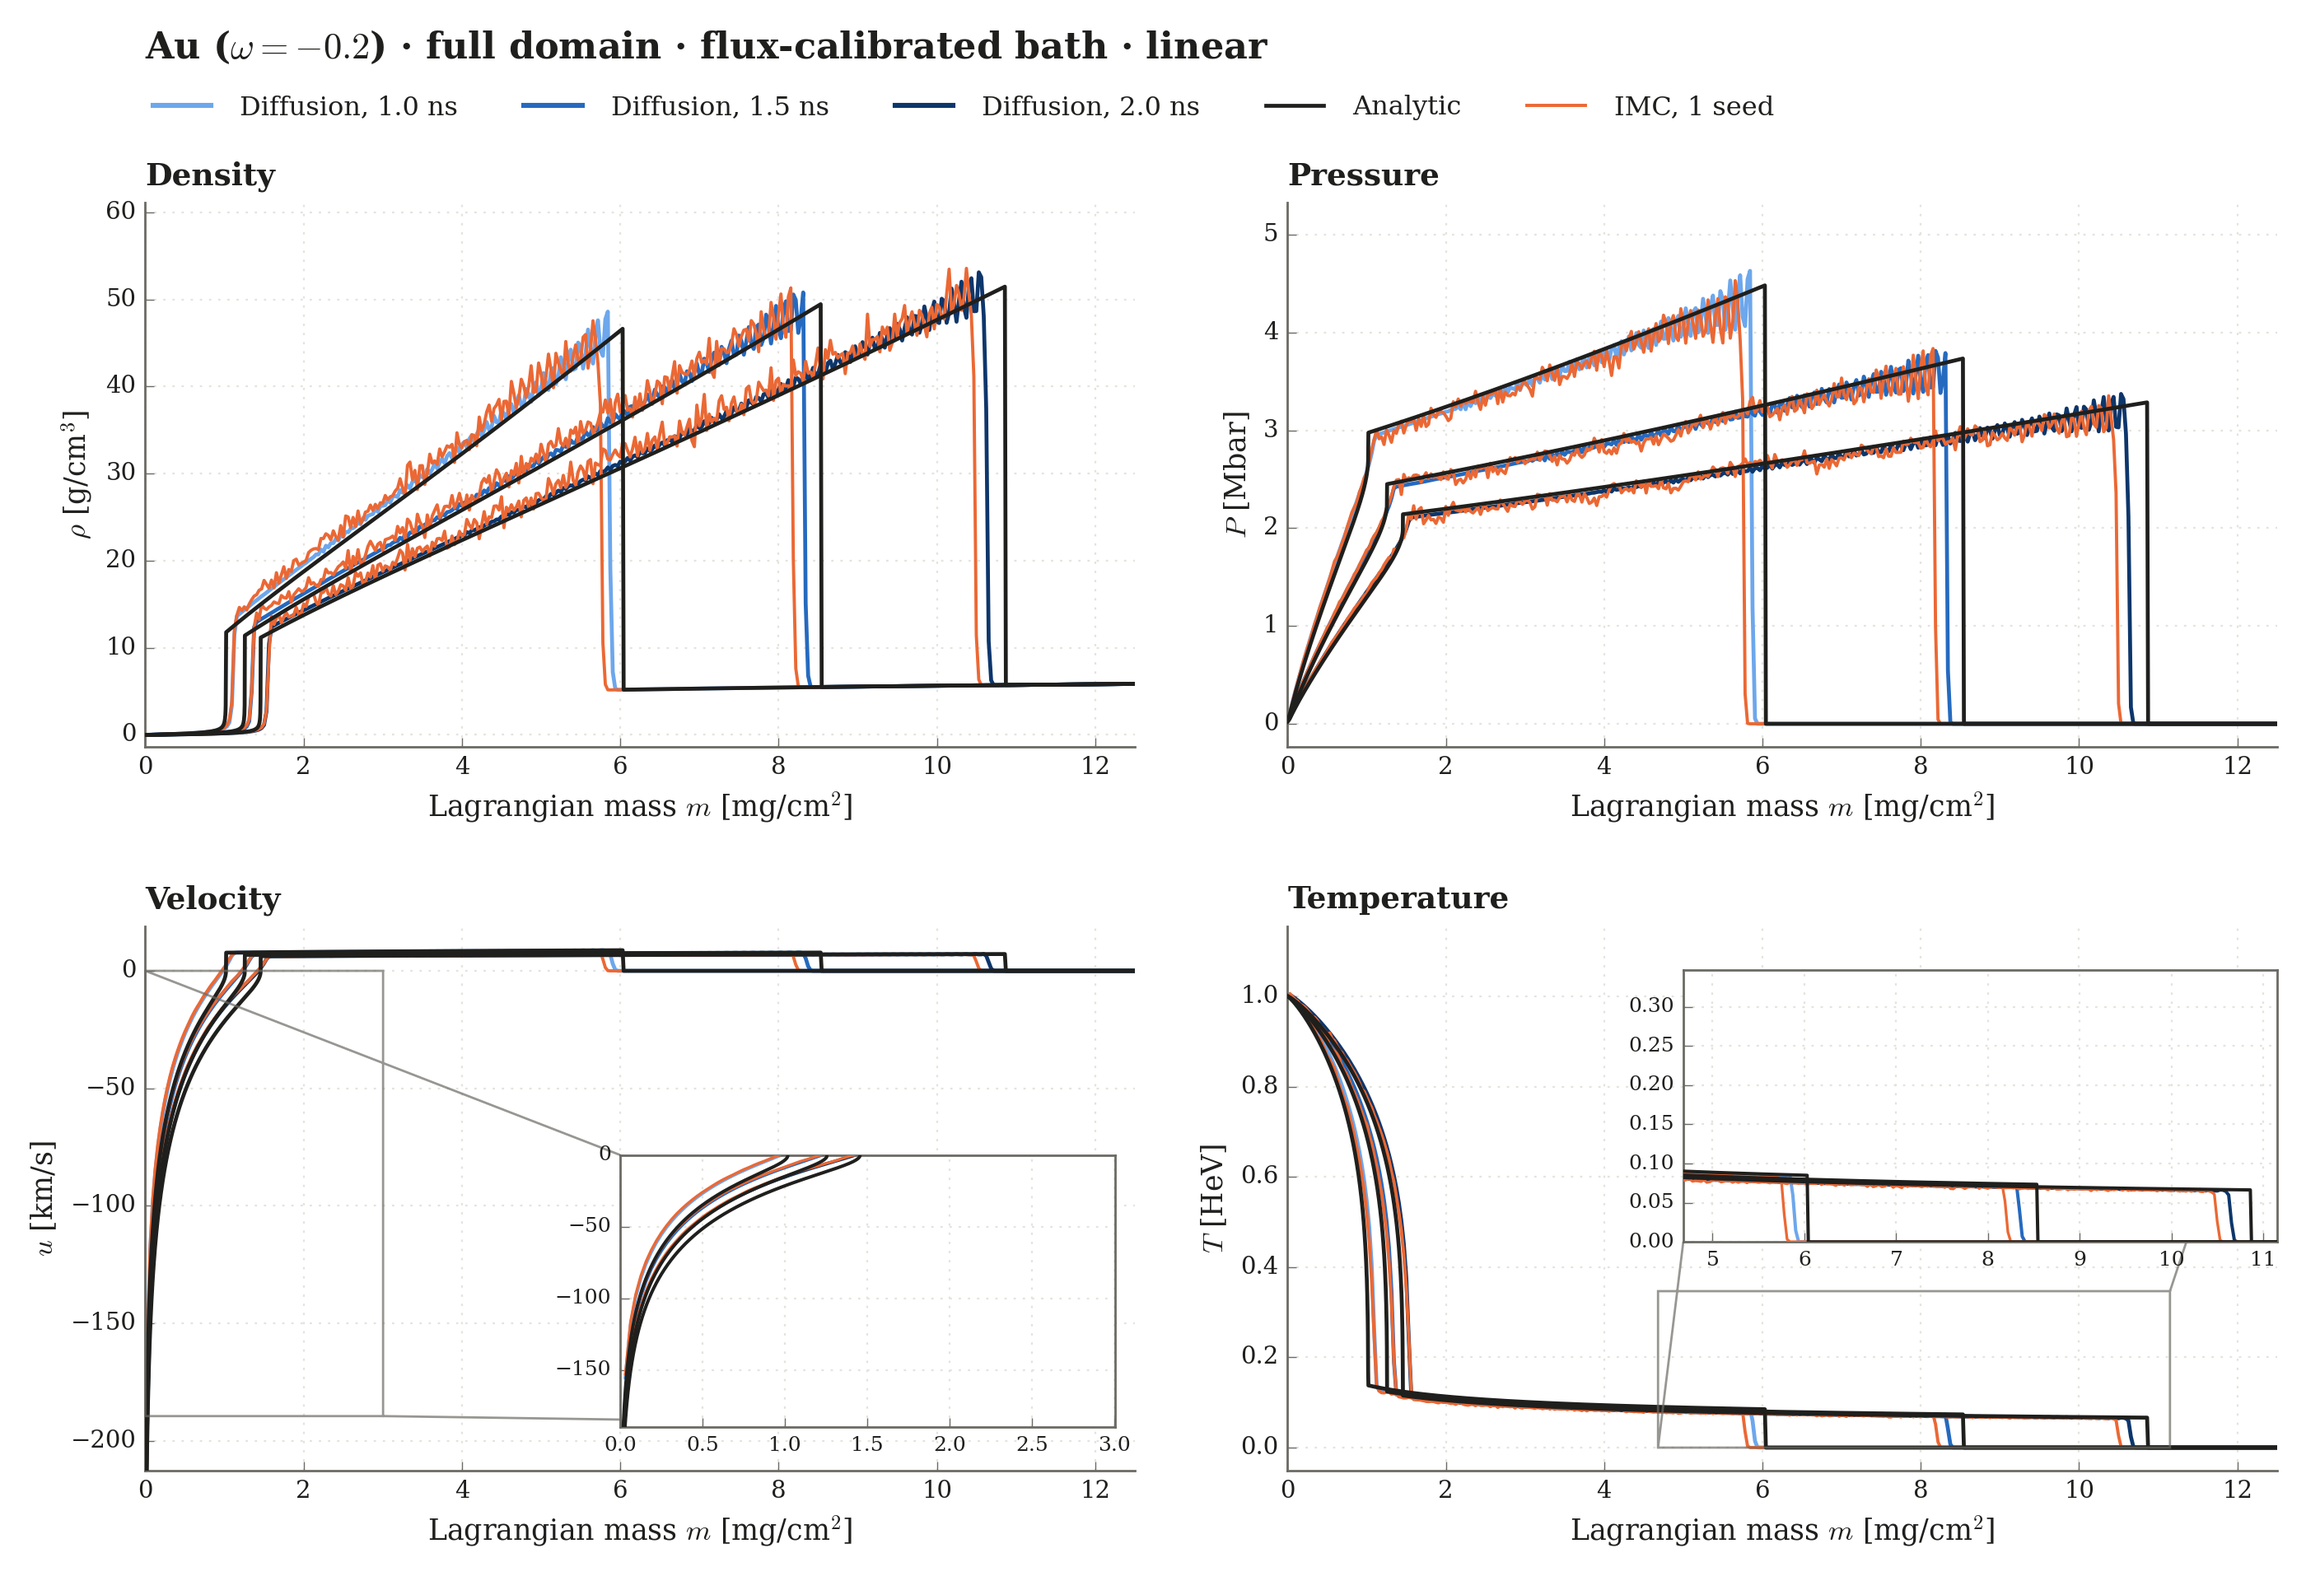
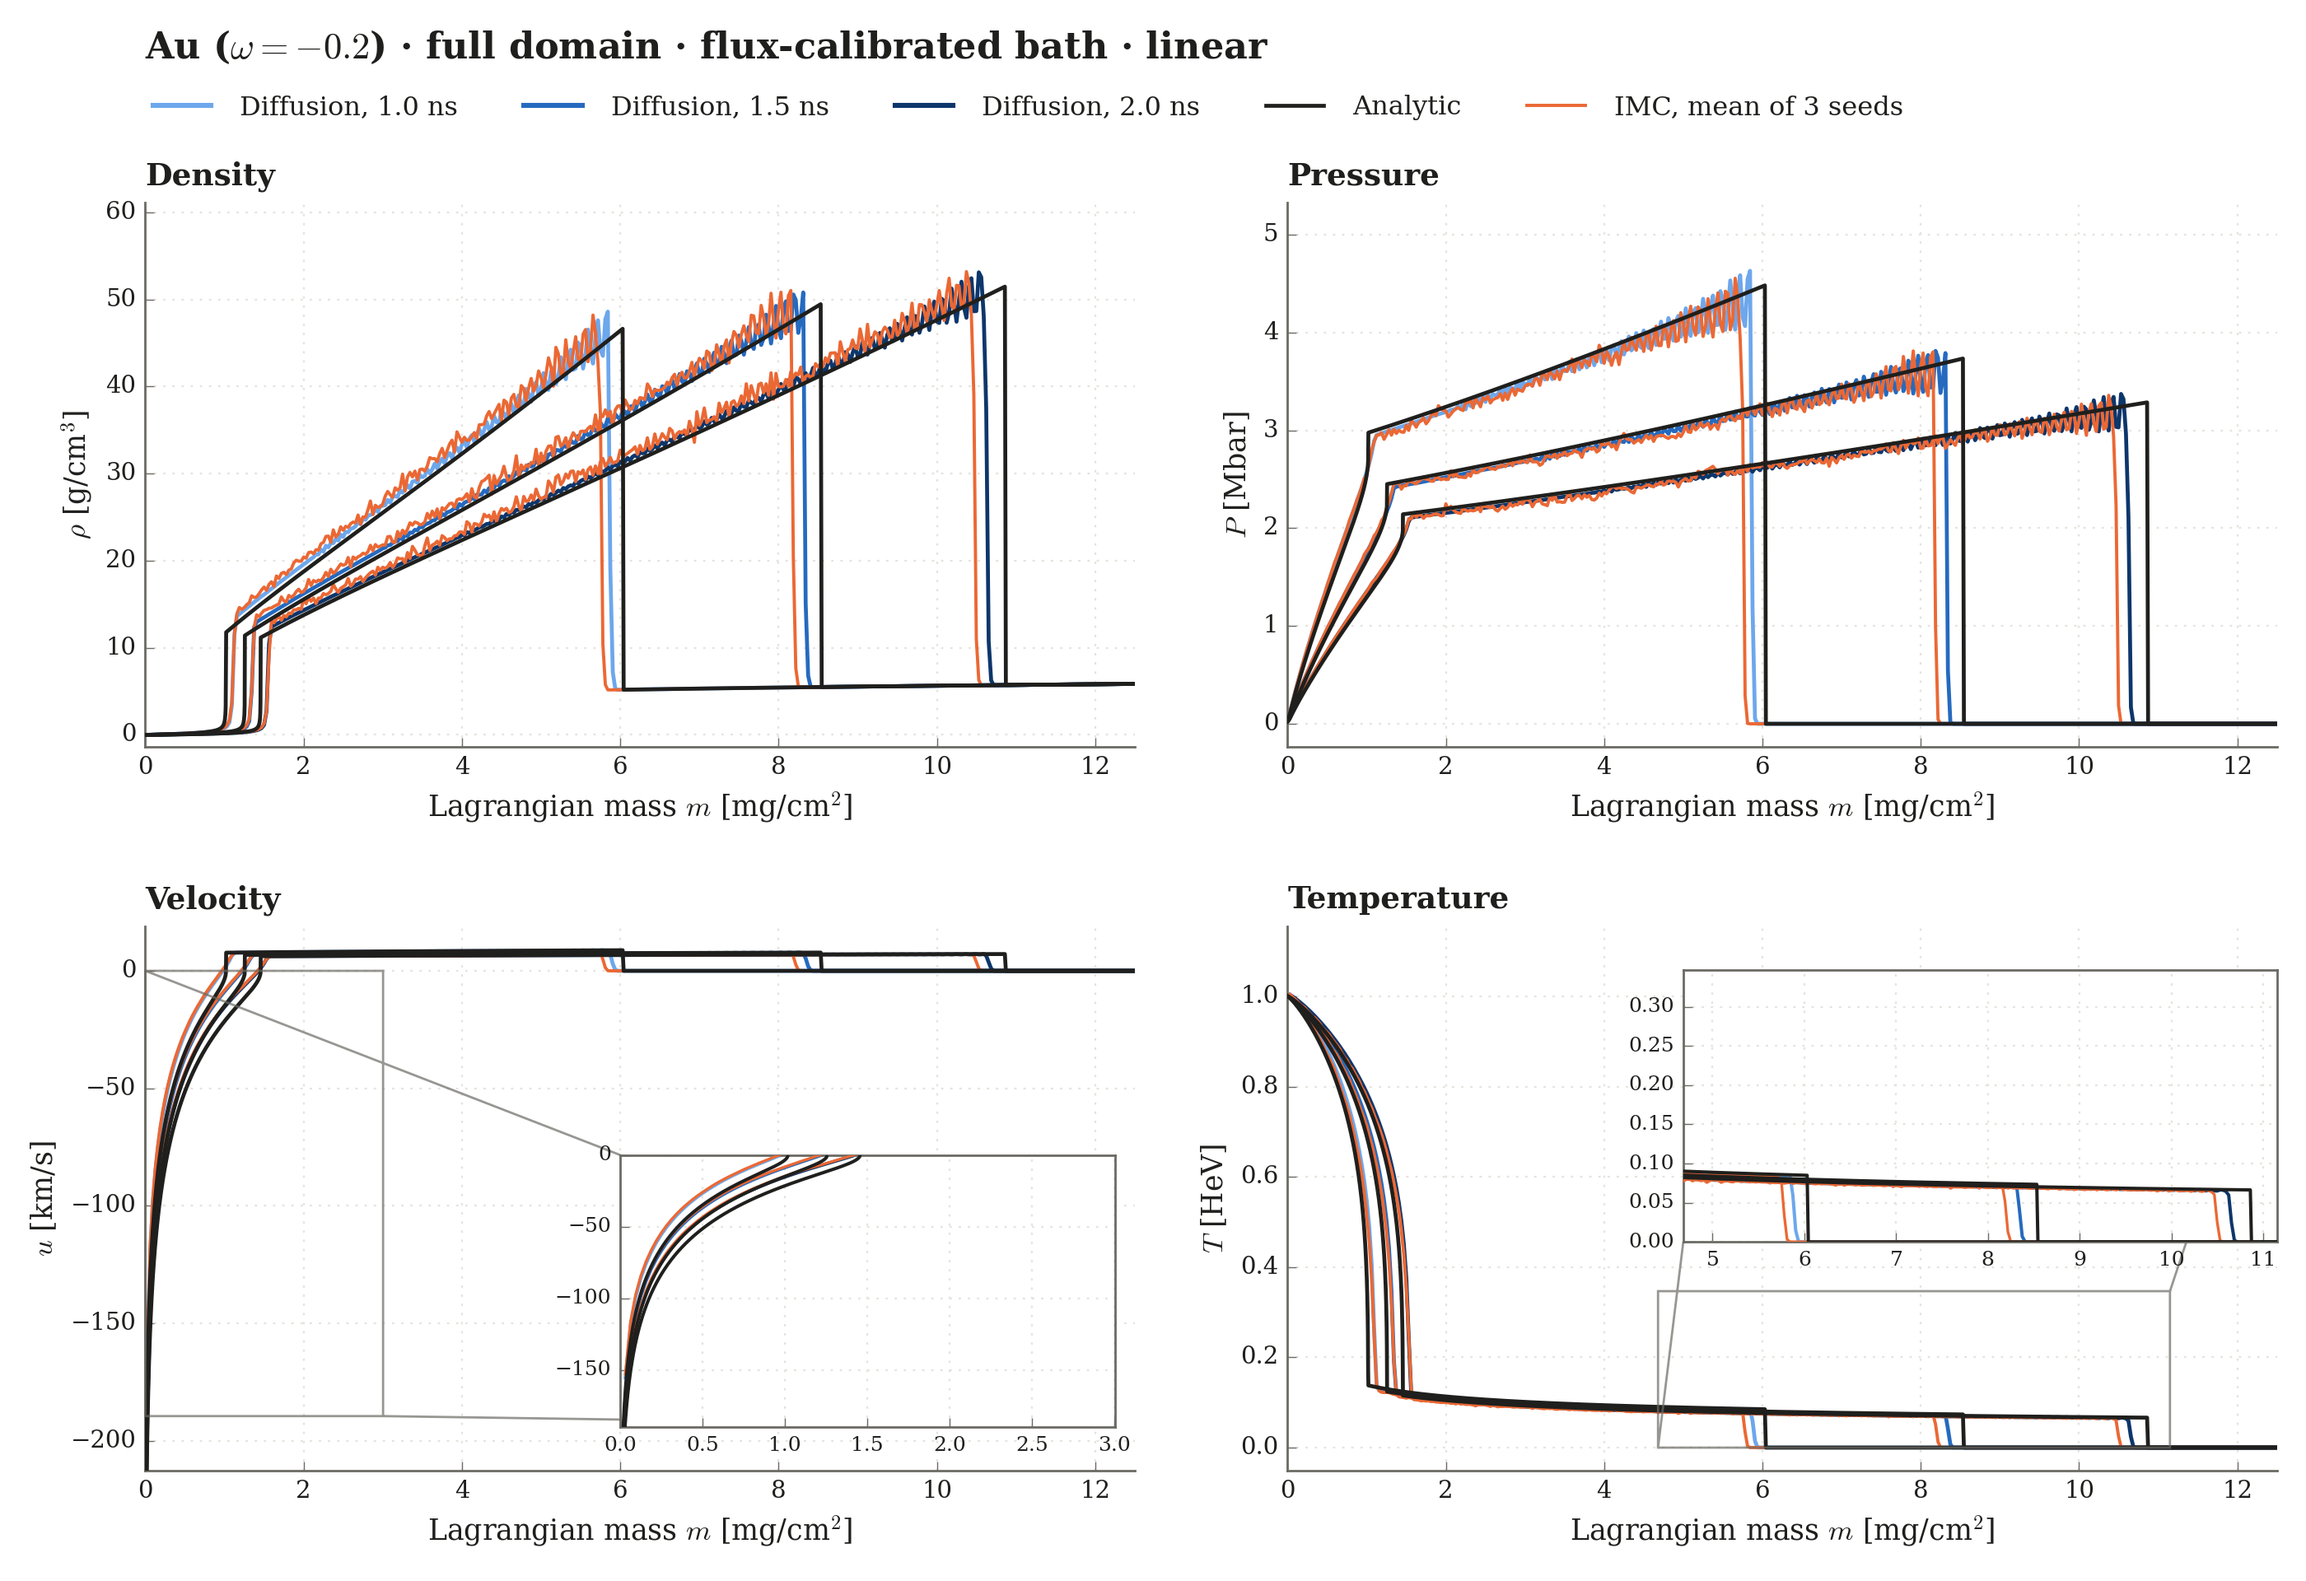
omega sweep: IMC as the mean of seeds 1-3 (cloud run)
Ran IMC seeds 2 and 3 for omega = -0.8 ... +0.6, both baths (32 runs, all
completed; diffusion and seed 1 reused from cache). Regenerated
fronts_omega*.png, fronts_vs_omega.png, mesh_convergence.png and
profiles/{paper_bath,calibrated_flux_bath}/omega*.png with IMC as the
3-seed mean; updated the README IMC rows, run tables and added an addendum.
Largest IMC change against seed 1: 0.1 points.

Claude-Session: https://claude.ai/code/session_01D4K35UBdfu5fz3HC4dfTkM

diff --git a/md/phase_c/omega_sweep/README.md b/md/phase_c/omega_sweep/README.md
@@ -1,13 +1,13 @@
 # Gold ω sweep: heat front and shock against time
 
-Gold, 1 HeV, τ = 0 (Test 4's material and drive) with the density ρ₀x^(−ω) for ω = −0.8 … +0.8 in steps of 0.2 (simulated up to +0.6; +0.8 has the solver only, §2). For each ω: the heat front (x_f, m_f) and the shock (x_s, m_s) against time, from diffusion with the paper bath, diffusion with the flux-calibrated bath, IMC with both baths (ω ≤ +0.6), and the semi-analytic `AblationSolver` (the same for both baths). Background on the baths: `../bath_calibration.md`.
+Gold, 1 HeV, τ = 0 (Test 4's material and drive) with the density ρ₀x^(−ω) for ω = −0.8 … +0.8 in steps of 0.2 (simulated up to +0.6; +0.8 has the solver only, §2). For each ω: the heat front (x_f, m_f) and the shock (x_s, m_s) against time, from diffusion with the paper bath, diffusion with the flux-calibrated bath, IMC (mean of seeds 1–3) with both baths (ω ≤ +0.6), and the semi-analytic `AblationSolver` (the same for both baths). Background on the baths: `../bath_calibration.md`.
 
 | file | content |
 |---|---|
 | `fronts_omega<ω>.png` | one per ω (`m0.8` = −0.8, `p0.2` = +0.2): x_f, m_f, x_s, m_s against t, with each simulation's deviation from the solver at 2 ns |
 | `fronts_vs_omega.png` | the deviations at 2 ns against ω, one panel per quantity |
 | `mesh_convergence.png` | the same on the default and on a finer mesh (§ Mesh convergence) |
-| `profiles/<bath>/omega<ω>.png` | ρ, p, u, T against mass at 1, 1.5 and 2 ns, full domain, linear axes: diffusion and IMC (1 seed) under that bath (`paper_bath/`, `calibrated_flux_bath/`) against the solver, as the per-bath figures of `../figures/`. On the graded meshes (ω ≥ +0.4) the ablated layer is a sliver of the domain; the velocity inset shows it |
+| `profiles/<bath>/omega<ω>.png` | ρ, p, u, T against mass at 1, 1.5 and 2 ns, full domain, linear axes: diffusion and IMC (mean of seeds 1–3) under that bath (`paper_bath/`, `calibrated_flux_bath/`) against the solver, as the per-bath figures of `../figures/`. On the graded meshes (ω ≥ +0.4) the ablated layer is a sliver of the domain; the velocity inset shows it |
 
 ## Deviation from the solver at 2 ns
 
@@ -16,37 +16,37 @@ Simulation vs. `AblationSolver`, in %; + means the simulation is ahead.
 | ω | run | x_f | m_f | x_s | m_s |
 |---|---|---|---|---|---|
 | −0.8 | diffusion, paper | −6.7 | +17.6 | −9.0 | −15.8 |
-| | IMC, paper | −7.2 | +17.0 | −9.5 | −16.6 |
+| | IMC, paper | −7.2 | +17.1 | −9.5 | −16.6 |
 | | diffusion, flux-calibrated | −0.2 | +34.1 | −2.7 | −5.0 |
-| | IMC, flux-calibrated | −0.7 | +33.4 | −3.2 | −5.9 |
+| | IMC, flux-calibrated | −0.7 | +33.3 | −3.1 | −5.8 |
 | −0.6 | diffusion, paper | −7.2 | +9.6 | −9.4 | −14.9 |
-| | IMC, paper | −7.8 | +9.0 | −10.0 | −15.7 |
+| | IMC, paper | −7.8 | +8.9 | −10.0 | −15.7 |
 | | diffusion, flux-calibrated | −1.9 | +21.2 | −4.0 | −6.6 |
-| | IMC, flux-calibrated | −2.4 | +20.4 | −4.6 | −7.4 |
+| | IMC, flux-calibrated | −2.4 | +20.3 | −4.6 | −7.4 |
 | −0.4 | diffusion, paper | −5.4 | +3.8 | −6.8 | −9.7 |
-| | IMC, paper | −6.0 | +3.3 | −7.6 | −10.6 |
+| | IMC, paper | −6.1 | +3.3 | −7.5 | −10.6 |
 | | diffusion, flux-calibrated | −2.4 | +8.9 | −3.6 | −5.2 |
-| | IMC, flux-calibrated | −3.1 | +8.4 | −4.3 | −6.2 |
+| | IMC, flux-calibrated | −3.1 | +8.5 | −4.3 | −6.2 |
 | −0.2 | diffusion, paper | −3.1 | +1.0 | −3.3 | −4.2 |
-| | IMC, paper | −4.1 | +0.9 | −4.5 | −5.7 |
+| | IMC, paper | −4.0 | +0.9 | −4.5 | −5.7 |
 | | diffusion, flux-calibrated | −1.8 | +3.1 | −1.7 | −2.3 |
 | | IMC, flux-calibrated | −2.7 | +2.9 | −2.9 | −3.7 |
 | 0 | diffusion, paper | −2.4 | −0.1 | −0.7 | −0.8 |
-| | IMC, paper | −3.5 | −0.2 | −2.4 | −2.5 |
+| | IMC, paper | −3.6 | −0.3 | −2.4 | −2.5 |
 | | diffusion, flux-calibrated | −1.7 | +0.7 | +0.2 | 0.0 |
-| | IMC, flux-calibrated | −2.8 | +0.6 | −1.6 | −1.7 |
+| | IMC, flux-calibrated | −2.8 | +0.6 | −1.5 | −1.7 |
 | +0.2 | diffusion, paper | −4.7 | −0.5 | +0.7 | +0.5 |
 | | IMC, paper | −6.0 | −0.6 | −1.4 | −1.2 |
 | | diffusion, flux-calibrated | −4.6 | −0.2 | +1.2 | +0.9 |
-| | IMC, flux-calibrated | −5.9 | −0.3 | −0.9 | −0.8 |
+| | IMC, flux-calibrated | −6.0 | −0.3 | −0.9 | −0.8 |
 | +0.4 | diffusion, paper | −8.9 | −1.3 | −0.8 | −3.3 |
-| | IMC, paper | −10.9 | −2.2 | −2.0 | −3.6 |
+| | IMC, paper | −10.8 | −2.1 | −2.0 | −3.6 |
 | | diffusion, flux-calibrated | −8.7 | −1.2 | −0.5 | −3.2 |
-| | IMC, flux-calibrated | −10.4 | −1.9 | −1.7 | −3.5 |
+| | IMC, flux-calibrated | −10.5 | −2.0 | −1.7 | −3.5 |
 | +0.6 | diffusion, paper | not resolved | 0.0 | +6.3 | −0.1 |
-| | IMC, paper | not resolved | +0.8 | +2.6 | −1.7 |
+| | IMC, paper | not resolved | +0.8 | +2.5 | −1.8 |
 | | diffusion, flux-calibrated | not resolved | +0.2 | +6.7 | −0.1 |
-| | IMC, flux-calibrated | not resolved | +1.2 | +3.4 | −1.3 |
+| | IMC, flux-calibrated | not resolved | +1.1 | +3.3 | −1.3 |
 
 What it shows:
 - **The shock follows the trend of `why_the_solver_differs.md` §3.** It agrees within ~1% for ω = 0 and +0.2 and falls behind steadily as ω decreases, to −15 … −16% in mass at ω ≤ −0.6, where the ablated mass is a large fraction of the shocked mass.
@@ -59,11 +59,11 @@ What it shows:
 
 | ω | mesh | paper bath | flux calibration | IMC |
 |---|---|---|---|---|
-| −0.8 … −0.2 | 400 cells, uniform in mass | diffusion, 39–49 s | 7 runs (flux matched to 0.2–1.0%), then diffusion, 19–35 s | 1 seed per bath, 1–2 min |
-| 0 | 657, uniform in mass | 76 s | converged after 4 runs; then diffusion, 32 s | 1 seed per bath |
-| +0.2 | 1510, uniform in mass | 186 s | converged after 3 runs; then diffusion, 100 s | 1 seed per bath, 7–10 min |
-| +0.4 | 347, graded (Test 3's) | 555 s | converged after 3 runs (0.16%); then diffusion | 1 seed per bath, ~50 min |
-| +0.6 | 347, graded | ~1 h of compute, 1.14 million steps, with the first step at 10⁻¹² t_end (below) | converged after 3 runs (0.17%); then diffusion, 11 min | 1 seed per bath, 2–2.4 h |
+| −0.8 … −0.2 | 400 cells, uniform in mass | diffusion, 39–49 s | 7 runs (flux matched to 0.2–1.0%), then diffusion, 19–35 s | 3 seeds (1–3) per bath, 1–2 min each |
+| 0 | 657, uniform in mass | 76 s | converged after 4 runs; then diffusion, 32 s | 3 seeds (1–3) per bath, ~1.7 min each (seeds 2, 3) |
+| +0.2 | 1510, uniform in mass | 186 s | converged after 3 runs; then diffusion, 100 s | 3 seeds (1–3) per bath, 4.3 min each (seeds 2, 3; seed 1 7–10 min on a laptop) |
+| +0.4 | 347, graded (Test 3's) | 555 s | converged after 3 runs (0.16%); then diffusion | 3 seeds (1–3) per bath, 27–28 min each (seeds 2, 3; seed 1 ~50 min on a laptop) |
+| +0.6 | 347, graded | ~1 h of compute, 1.14 million steps, with the first step at 10⁻¹² t_end (below) | converged after 3 runs (0.17%); then diffusion, 11 min | 3 seeds (1–3) per bath, 94–98 min each (seeds 2, 3; seed 1 2–2.4 h on a laptop) |
 | +0.8 | — | **not simulated** (below); the solver exists | — | — |
 
 The uniform-mass meshes put ≥ 40 cells across the ablated layer at 2 ns (cells = 40 × 1.15 m_s/m_f, 400 to 2000). From ω = +0.4 the shocked mass is ≥ 100× the ablated one, so the graded mesh of Test 3 is used. Its shocked region has coarse cells, which costs a few % in the shock (Test 3: −2% on this mesh).
@@ -97,3 +97,10 @@ uv run python -m rad_hydro_sim.verification.omega_sweep --profiles              
 ```
 
 Runs are cached in `results/omega_sweep{,_calibrated_flux}/`, the flux tables in `src/rad_hydro_sim/data/bath_correction/SWEEP_*_flux.txt`. The solver for each ω reuses Test 4's heat solver, which does not depend on ω, and builds only its own `PistonShock`, in about a second. At ω = −0.5 it reproduces Test 4's solver exactly.
+
+
+## Addendum 2026-11-06: IMC with 3 seeds
+
+IMC in the tables and figures above is now the mean of seeds 1–3; before, it was seed 1 alone. Seeds 2 and 3 were run in a cloud session (4 cores, one process per run) for every ω and both baths, 32 runs, all completed; the diffusion runs and seed 1 were reused from the cache unchanged, and the diffusion rows are identical to before. Run times: about 1 min for ω = −0.8 … −0.2, 1.7 min at ω = 0, 4.3 min at +0.2, 27–28 min at +0.4 and 94–98 min at +0.6.
+
+The largest change of any IMC deviation against the seed-1 values is 0.1 percentage points, as printed to one decimal (for example m_f at ω = −0.8, paper bath: +17.0 → +17.1%). The IMC seed-to-seed scatter is therefore small next to the differences between IMC and diffusion (0.1–2.1 points), and no conclusion changed: IMC follows diffusion, its shock sits slightly behind diffusion's, and the trends with ω and the effect of the flux-calibrated bath are as stated above.
